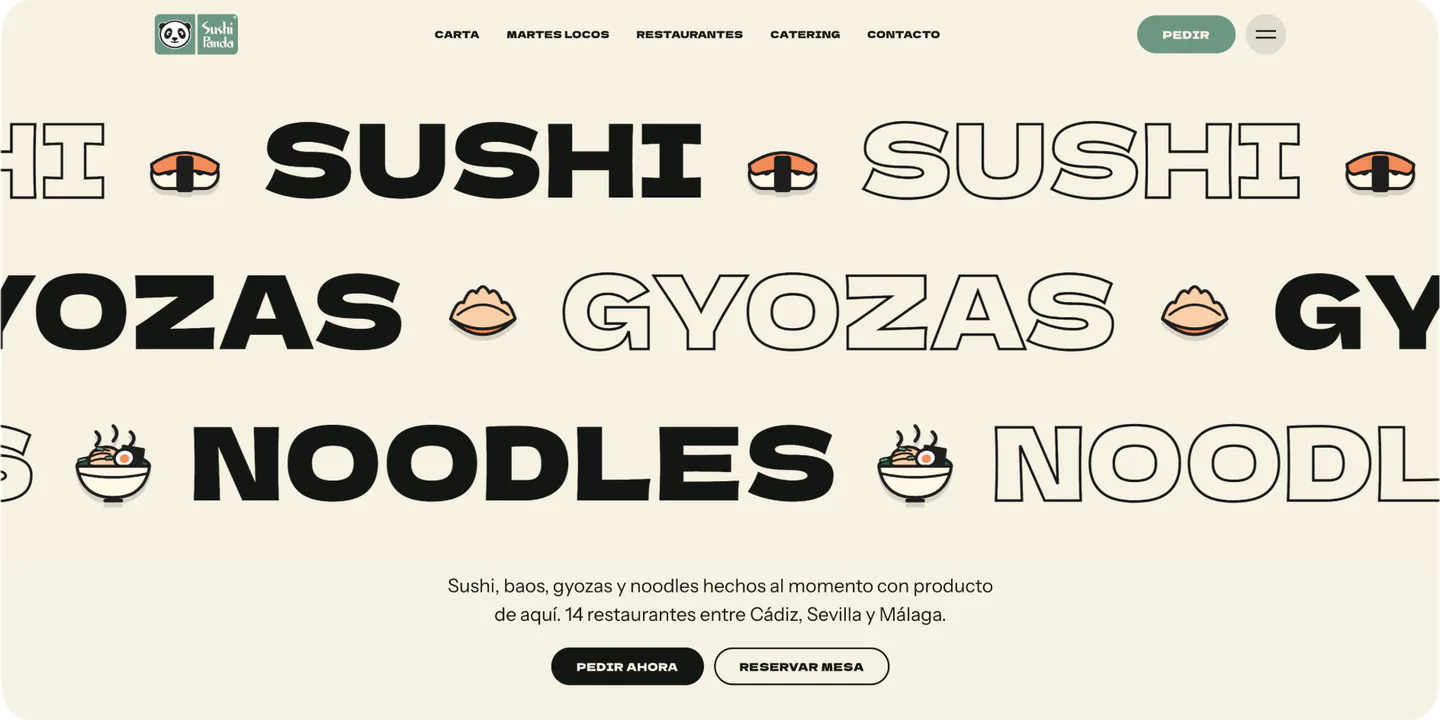
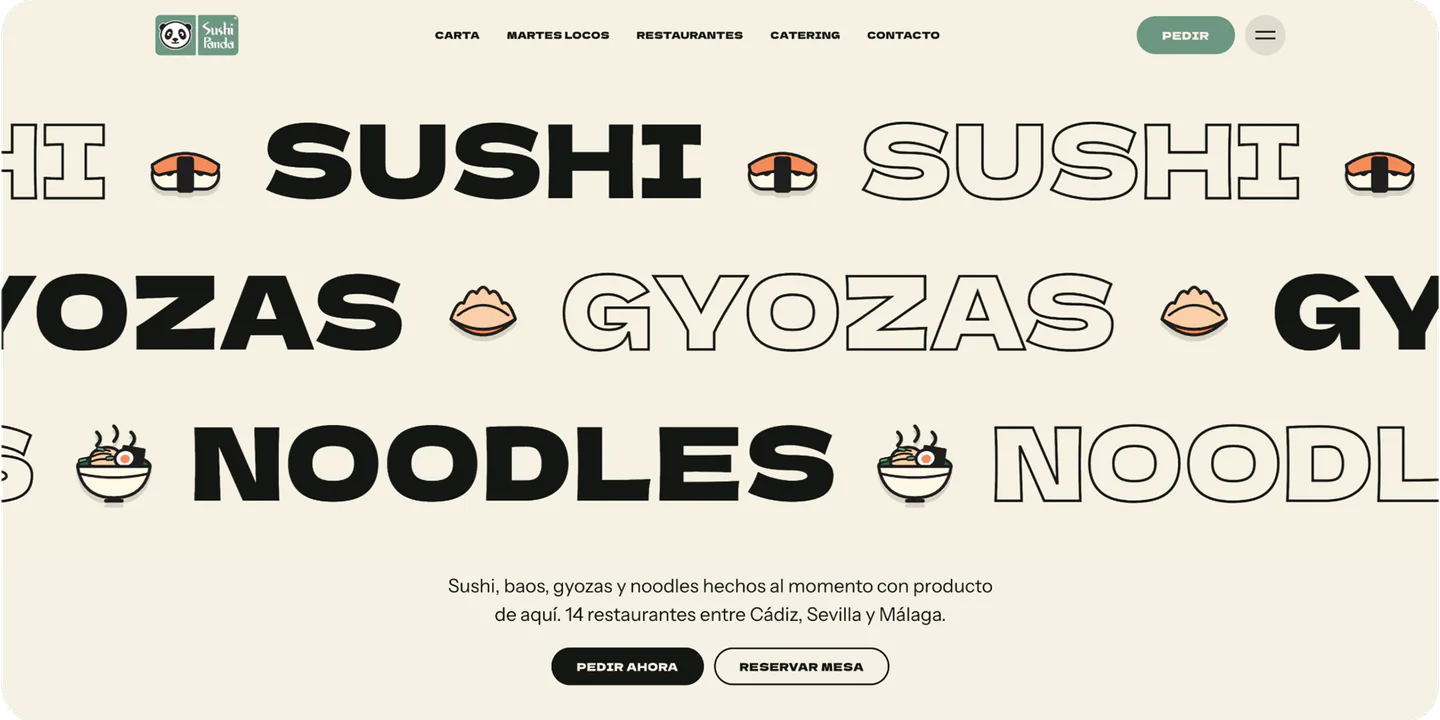
update Sushi Panda showcase assets

diff --git a/src/App.vue b/src/App.vue
@@ -181,7 +181,7 @@ const imageSizeMap = {
   "reservas-1.png": { width: 1920, height: 1536 },
   "reservas-2.png": { width: 1920, height: 1536 },
   "reservas-3.png": { width: 1920, height: 1536 },
-  "sushi-panda.png": { width: 1920, height: 1536 },
+  "sushi-panda.png": { width: 1920, height: 970 },
   "sushi-panda-project.png": { width: 1920, height: 1203 },
   "sushi-panda-1.png": { width: 1920, height: 1536 },
   "sushi-panda-2.png": { width: 1920, height: 1536 },
@@ -733,12 +733,12 @@ const heroImageSrcset = [
 
 const heroSlides = [
   "aparicio-2.png", "collecta.png", "reservas-1.png", "pecatto-2.png",
-  "vegan-roll.png", "ducati.png", "locura-2.png", "reservas.png",
+  "sushi-panda-4.png", "vegan-roll.png", "ducati.png", "locura-2.png", "reservas.png",
   "platypool-3.png", "pecatto.png", "vegan-roll-1.png", "aparicio.png",
-  "reservas-2.png", "pecatto-3.png", "aparicio-3.png", "vegan-roll-2.png",
+  "sushi-panda.png", "reservas-2.png", "pecatto-3.png", "aparicio-3.png", "vegan-roll-2.png",
   "burntab.png", "aparicio-4.png",
 ];
-const heroZoomShots = new Set(["collecta.png", "burntab.png", "aparicio.png", "ducati.png", "pecatto.png", "reservas.png", "vegan-roll.png"]);
+const heroZoomShots = new Set(["collecta.png", "burntab.png", "aparicio.png", "ducati.png", "pecatto.png", "reservas.png", "vegan-roll.png", "sushi-panda.png"]);
 const heroSlide = ref(0);
 let heroTimer = null;
 
